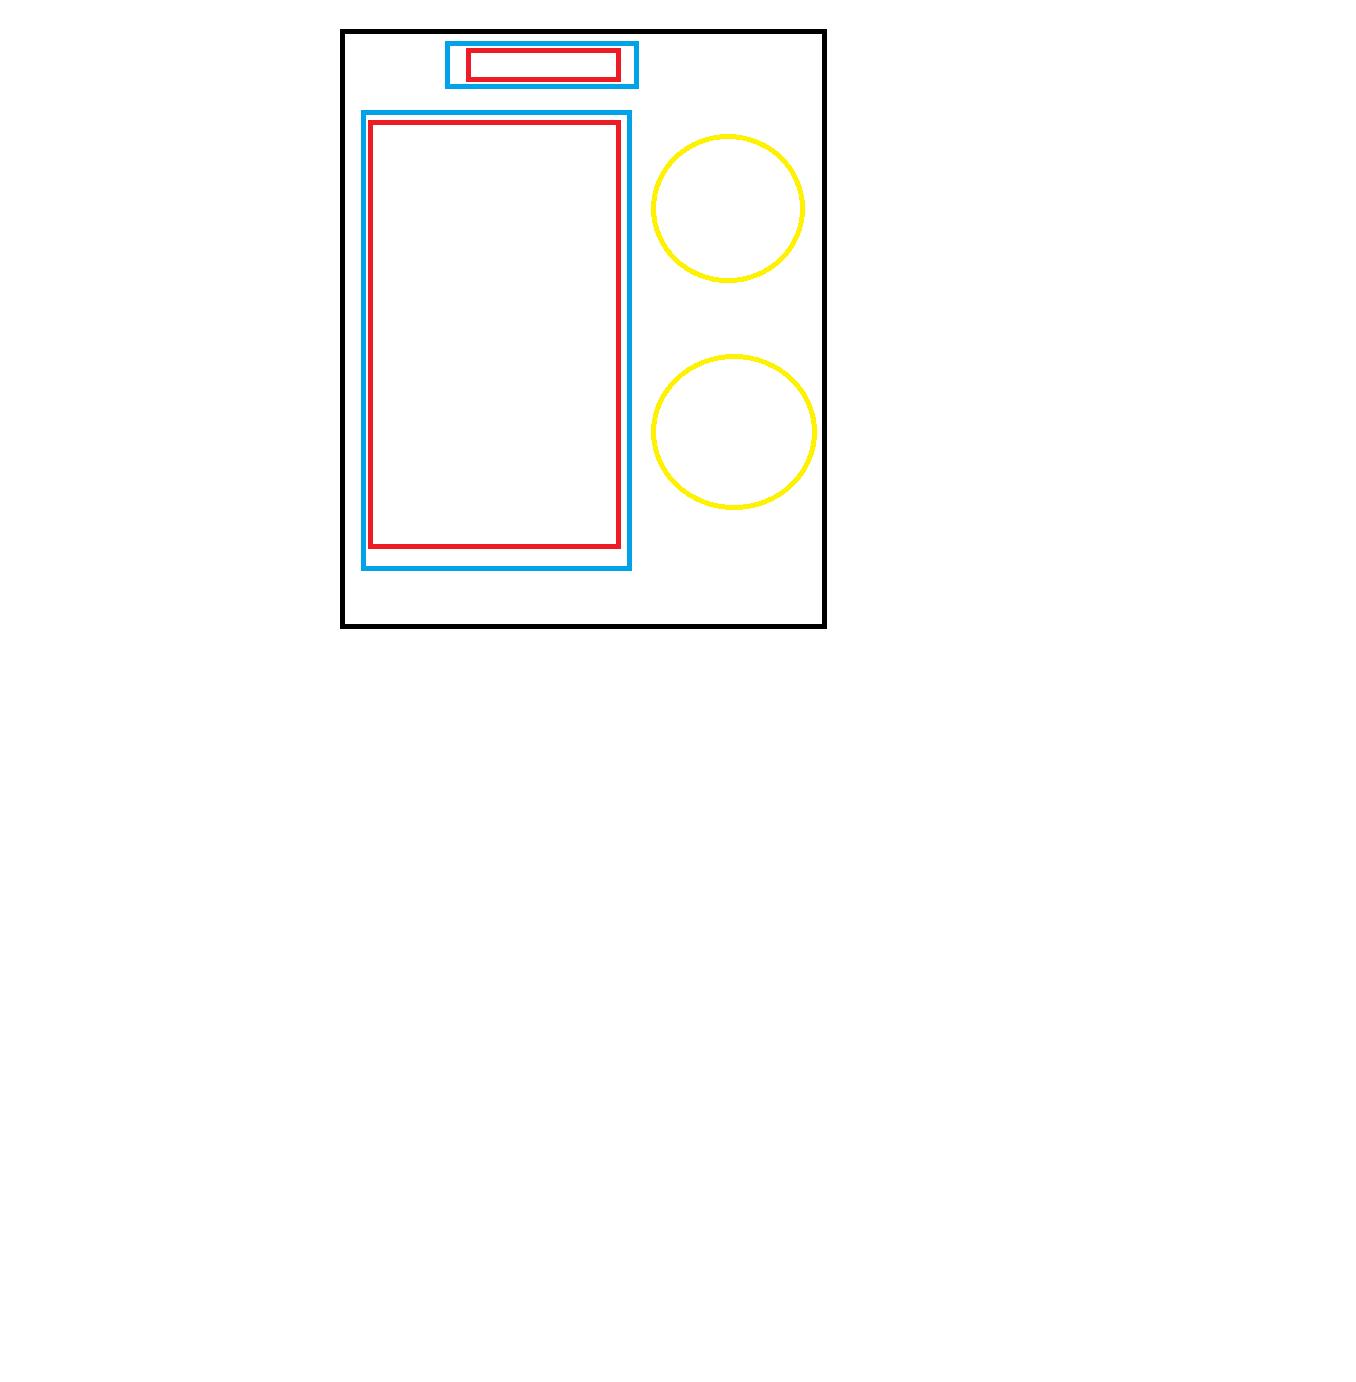
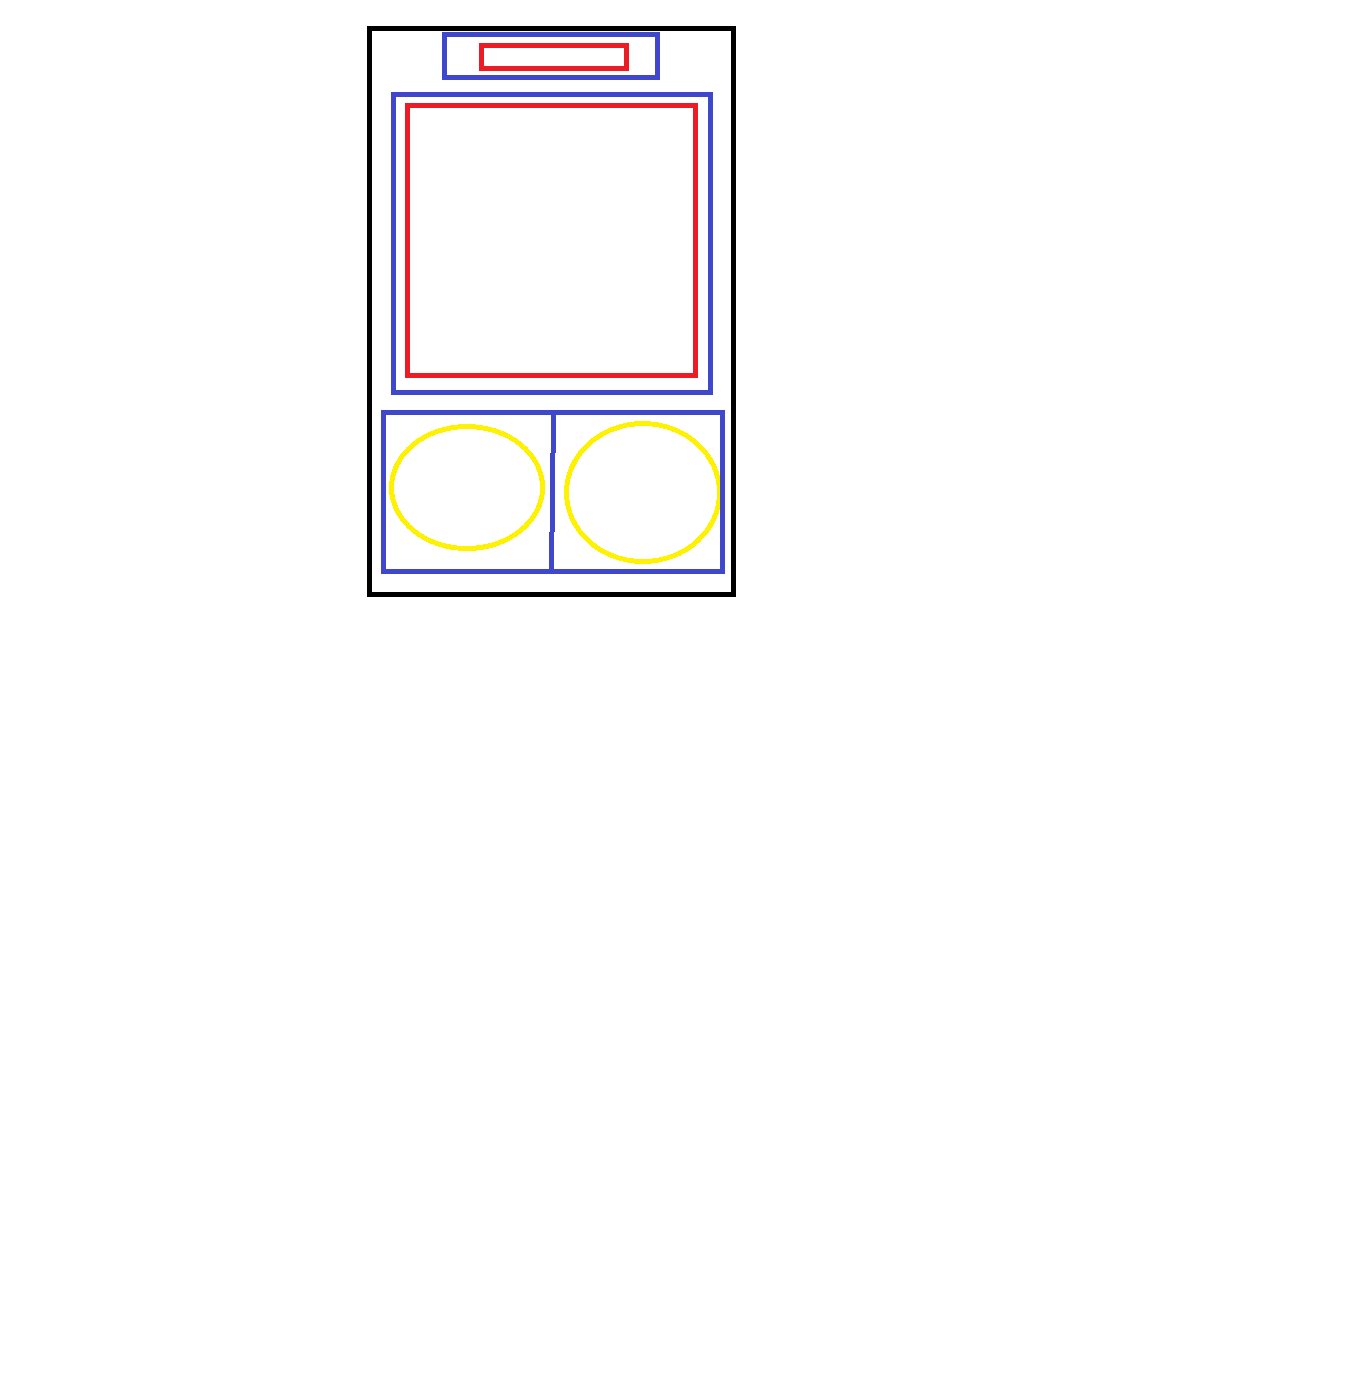
mobile about page + wireframe update

Changed region(s): [[0.2478, 0.0, 0.6195, 0.4667]]

diff --git a/style.css b/style.css
@@ -105,7 +105,6 @@ main.about {
   padding: 0 15px;
   color: floralwhite;
   font-family: Arial, Helvetica, sans-serif;
-  font-size: large;
   font-size: 1.3em;
 }
 
@@ -120,6 +119,13 @@ main.about {
   .about section {
     display: flex;
     flex-direction: column;
+  }
+  .pic.holder {
+    display: flex;
+  }
+  .about p {
+    font-family: Arial, Helvetica, sans-serif;
+    font-size: 1em;
   }
 }
 
